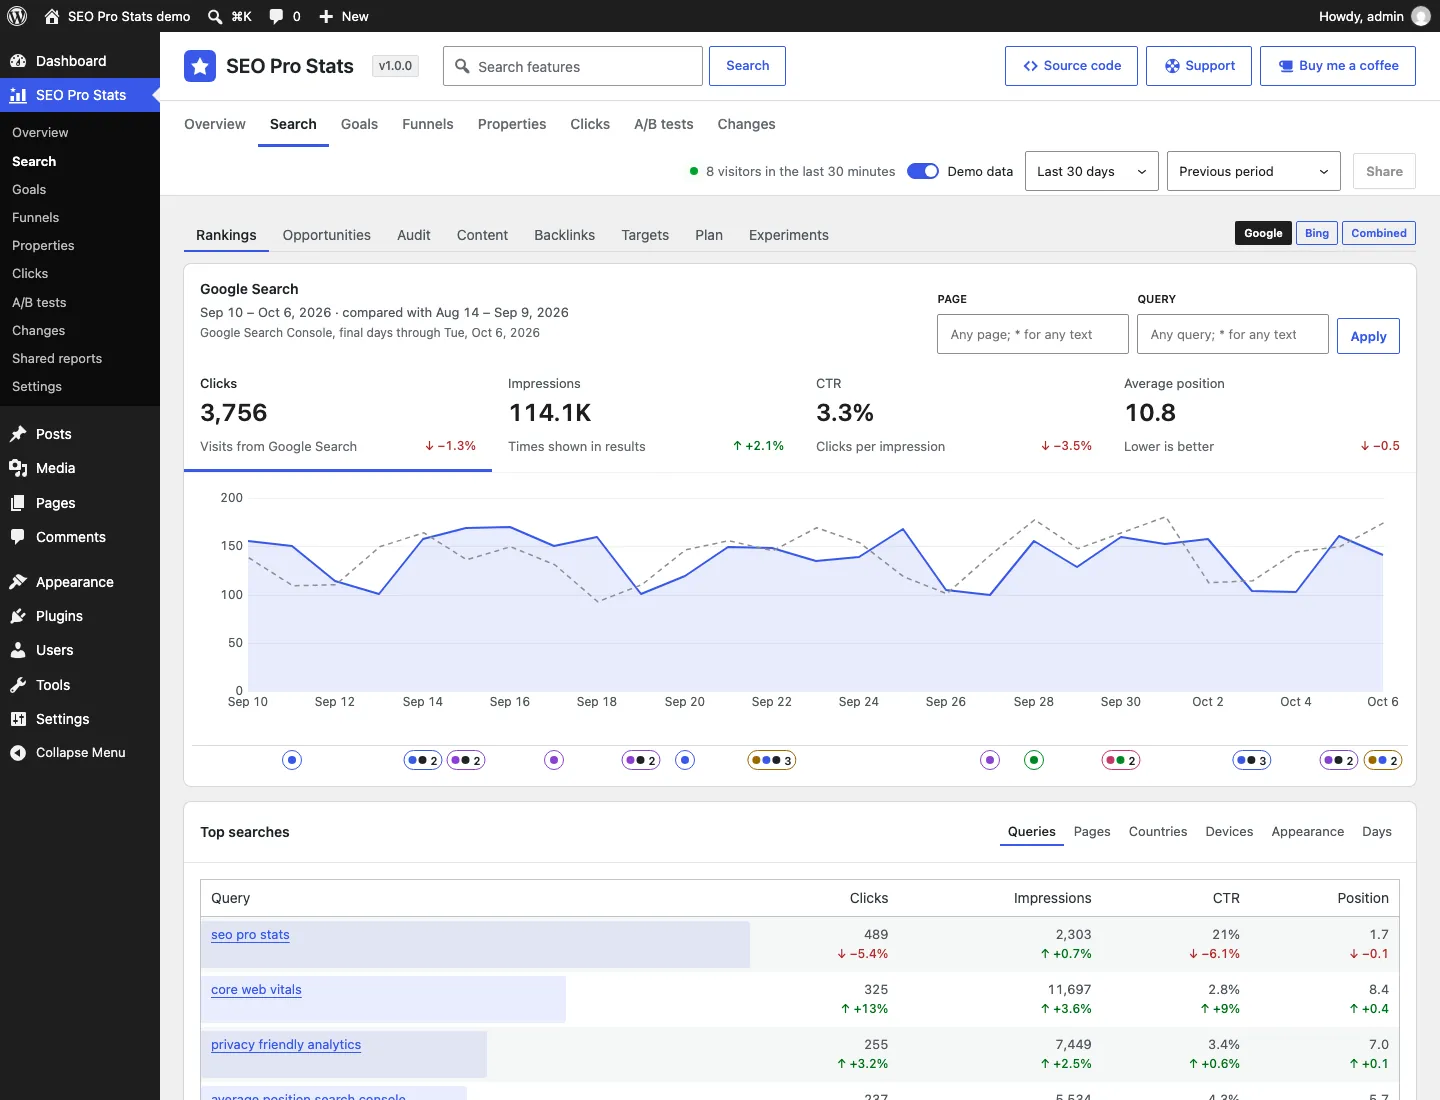
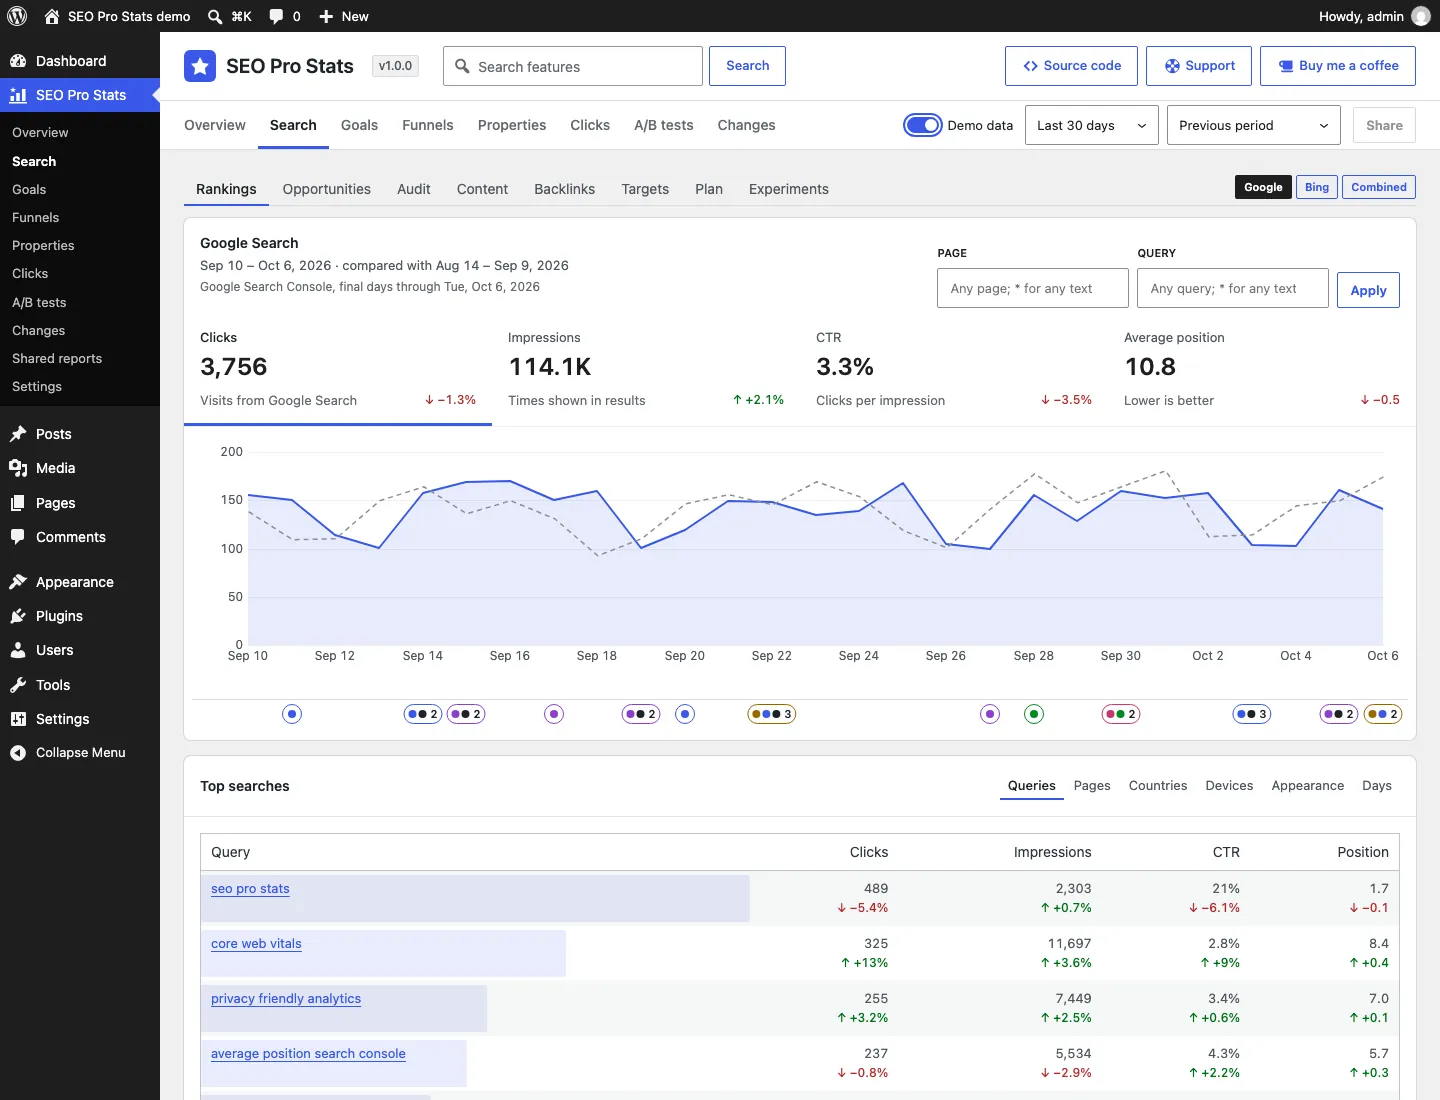
docs: screenshots of the current screens, and a sixth of a shared report

diff --git a/README.md b/README.md
@@ -31,7 +31,7 @@ Version: 1.0.0
 <!-- github-only:start -->
 ## Screenshots
 
-**The Overview**: visits against the previous period, with the site's changes marked under the chart.
+**The Overview**: visits against the previous period, the visitors on the site now, and the site's changes marked under the chart.
 
 ![The SEO Pro Stats Overview with its chart and changes lane](.wordpress-org/screenshot-1.png)
 
@@ -47,9 +47,13 @@ Version: 1.0.0
 
 ![The Changes section](.wordpress-org/screenshot-4.png)
 
-**Goals**: conversions, conversion rate and revenue per currency, against the previous period.
+**Goals**: conversions, conversion rate and revenue per currency, against the previous period, with what the figures say and how to improve them.
 
 ![The Goals section](.wordpress-org/screenshot-5.png)
+
+**A shared report**: the sections you chose, read-only for a client or colleague, without wp-admin, ready to print or save as PDF.
+
+![A shared report's Overview](.wordpress-org/screenshot-6.png)
 <!-- github-only:end -->
 
 ## Why SEO Pro Stats
@@ -462,6 +466,10 @@ Read a setting with `SEOProStats_Settings::get( 'key' )`.
 Deleting the plugin removes its settings, its connections and their encrypted keys, its statistics (with the days imported from other statistics plugins), imported search data and demo data, its list of A/B tests (the test blocks stay in posts), its cached data, its notes on shops' orders (checkout visit, recorded), each person's Live or Demo choice, who hid lines of the Plugins screen notice about replaced plugins, and the cached GitHub releases.
 
 ## Changelog
+
+### Unreleased
+
+- Changed: the source code is public on GitHub. The screenshots show the current screens (the live count on the Overview, Info & ideas), and a sixth shows a shared report. Nothing changes in the plugin.
 
 ### 1.0.0
 
